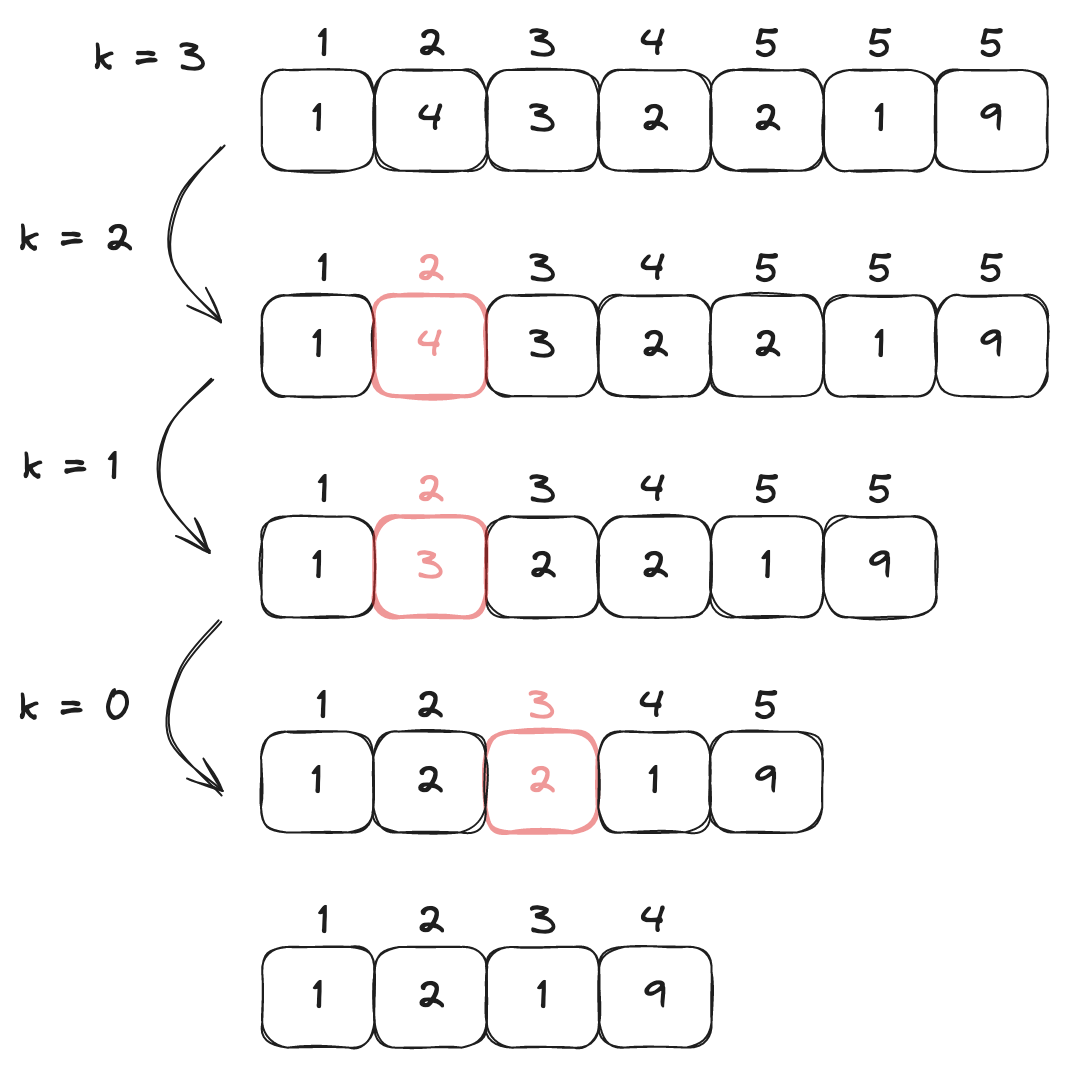
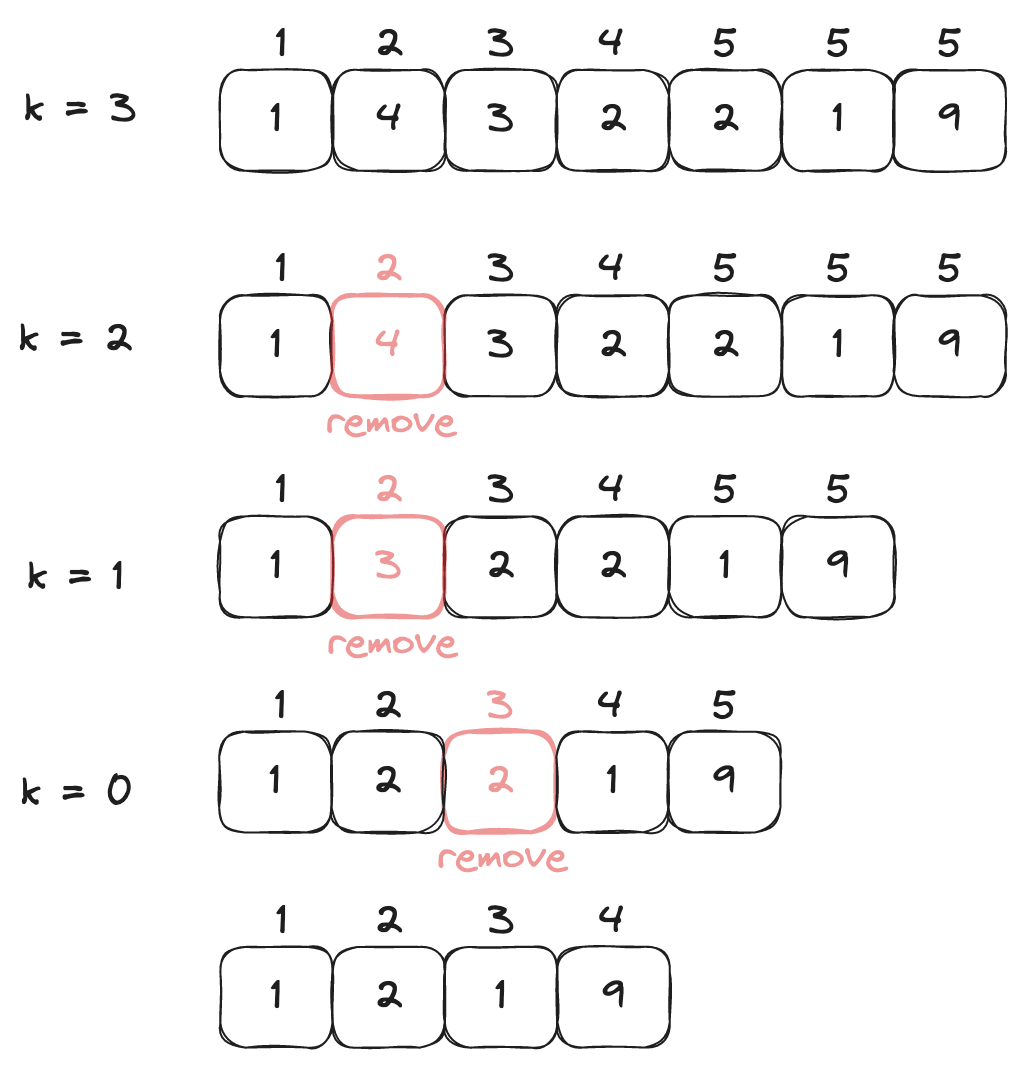
Publish: 이미지 변경

diff --git a/content/posts/problem_solving/leetcode/402-remove-k-digits/index.md b/content/posts/problem_solving/leetcode/402-remove-k-digits/index.md
@@ -91,10 +91,9 @@ i = 1
 
 <br>
 
-<!-- <img width="400" alt="image" src="https://github.com/user-attachments/assets/3c28956a-a404-4e05-85fe-c72b12688d9a"> -->
-<img width="400" alt="image" src="image.png">
+![](image.png)
 
-<br><br>
+<br>
 
 따라서, 다음과 같이 k 가 있는 경우 제외를 시켜준다.  
 
@@ -147,10 +146,9 @@ for digit in num:
 
 <br>
 
-<!-- <img width="500" alt="image" src="https://github.com/user-attachments/assets/4d1a187e-3c60-4848-a1c5-bad673ad7175"> -->
-<img width="500" alt="image" src="image2.png">
+![](image2.png)
 
-<br><br>
+<br>
 
 비교가 끝나고나서 k 가 남아있는 경우에는 리스트에서 했던 방식으로 뒤에서 부터 정수를 제외시켜주고 문자를 합쳐준 다음 앞에 있는 "0" 을 제외시켜주었다.  
 

diff --git a/content/posts/problem_solving/leetcode/1191-k-concatenation-maximum-sum/index.md b/content/posts/problem_solving/leetcode/1191-k-concatenation-maximum-sum/index.md
@@ -107,7 +107,9 @@ https://leetcode.com/problems/k-concatenation-maximum-sum/description/
 
     <br>
 
-    ![](image3.png)
+    <div style="padding: 0 150px;">
+        <img src="image3.png">
+    </div>
 
     <br>
 
@@ -122,9 +124,9 @@ https://leetcode.com/problems/k-concatenation-maximum-sum/description/
 
     <br>
 
-    ![](image4.png)
-
-    <br>
+    <div style="padding: 0 150px;">
+        <img src="image4.png">
+    </div>
     
 <br>
 
@@ -139,9 +141,9 @@ https://leetcode.com/problems/k-concatenation-maximum-sum/description/
 
     <br>
 
-    ![](image5.png)
-
-    <br>
+    <div style="padding: 0 150px;">
+        <img src="image5.png">
+    </div>
 
 <br>
 
